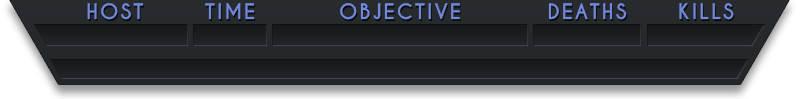
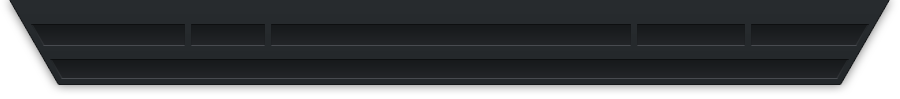
Wider overlay, option to chose colour
Use ?colour=hex to customize

diff --git a/overlay.css b/overlay.css
@@ -12,7 +12,7 @@
 		background-position: -250px 0;
 	}
 	100% {
-		background-position: 950px 0;
+		background-position: 1050px 0;
 	}
 }
 body{
@@ -22,7 +22,7 @@ body{
 .container{
     position: relative;
     height: 99px;
-    width: 800px;
+    width: 900px;
 	margin: 0 auto;
 	padding: 0;
     background-image: url(overlay.png);
@@ -37,12 +37,12 @@ body{
     left: 50px;
 	top: 50px;
     height: 5px;
-    width: 700px;
+    width: 800px;
     background-color: rgba(0,0,0,0.2);
 	box-shadow:inset 1px 1px 0px 0 rgba(0, 0, 0, 0.5), 1px 1px 0px 0 rgba(255, 255, 255, 0.1);
     border-radius: 0 0 5px 5px;
 }
-.ui-progressbar-value{
+.value{
     height: 100%;
     border-radius: 0 0 10px 10px;
 	background-color: #7289DA;
@@ -79,7 +79,7 @@ body{
 }
 #Time{
     top: 24px;
-	left: 193px;
+	left: 191px;
     width: 74px;
 	height: 22px;
 }
@@ -90,8 +90,8 @@ body{
 }
 #Objective{
     top: 24px;
-	left: 272px;
-    width: 256px;
+	left: 271px;
+    width: 360px;
 	height: 22px;
 }
 #Objective::before{
@@ -101,7 +101,7 @@ body{
 }
 #Deaths{
     top: 24px;
-	left: 533px;
+	left: 637px;
     width: 108px;
 	height: 22px;
 }
@@ -112,7 +112,7 @@ body{
 }
 #Kills{
     top: 24px;
-	left: 647px;
+	left: 751px;
     width: 119px;
 	height: 22px;
 }
@@ -121,6 +121,36 @@ body{
 	animation: masked-animation 13s ease-in-out infinite;
 	background-size: 400% 100%;
 }
+.host{
+    top: 0;
+	left: 83px;
+    width: 60px	;
+	height: 20px;
+}
+.time{
+    top: 0;
+	left: 201px;
+    width: 52px	;
+	height: 20px;
+}
+.objective{
+    top: 0;
+	left: 389px;
+    width: 122px	;
+	height: 20px;
+}
+.deaths{
+    top: 0;
+	left: 650px;
+    width: 83px	;
+	height: 20px;
+}
+.kills{
+    top: 0;
+	left: 782px;
+    width: 58px	;
+	height: 20px;
+}
 .textFormat{
 	text-align: center;
 	font-weight: bold;
@@ -128,10 +158,18 @@ body{
     color: rgba(153, 170, 181, .7);
     position: absolute;
 }
+.titleFormat{
+	text-align: center;
+	font-size: 18px;
+	font-weight: bold;
+    color: #7289da;
+    position: absolute;
+	text-shadow: 1px 1px rgba(0,0,0,0.4);
+}
 .info{
     top: 59px;
-	left: 49px;
-    width: 701px;
+	left: 51px;
+    width: 799px;
 	height: 20px;
 }
 .info::before{

diff --git a/overlay.js b/overlay.js
@@ -1,7 +1,6 @@
 var lastUpdate = 0;
 var lastData = [];
-var trialDataURL = 'http://trialslive.azurewebsites.net/api/live/PC/';
-trialDataURL = 'https://86541c65-ac1b-42e0-8eaa-50c36511bceb.pub.cloud.scaleway.com/api/live/PC/';
+var trialDataURL = 'https://86541c65-ac1b-42e0-8eaa-50c36511bceb.pub.cloud.scaleway.com/api/live/PC/';
 var infoURL = 'Info.txt';
 
 function getInfoText(callback) {
@@ -60,11 +59,24 @@ function updateTags(username) {
     $('#Kills').text(c.kills).attr('data-content',c.kills);
     $('#Deaths').text(c.deaths).attr('data-content',c.deaths);
     $('#Players').text('Players: ' + players);
-    $('.progress').progressbar({
-      value: c.progressValue
-    });
+	$('.value').css('width', c.progressValue + '%');
     //c.progressValue < 100 ? $('.ui-progressbar-value').addClass('loading') : $('.ui-progressbar-value').removeClass('loading');
   });
+}
+
+function customColour(hexValue){
+	if (!hexValue) {
+		return
+	}
+	var selectDom = $('.host, .time, .objective, .deaths, .kills');
+	var progressC = $('.value');
+	var bigint = parseInt(hexValue, 16);
+    var r = (bigint >> 16) & 255;
+    var g = (bigint >> 8) & 255;
+    var b = bigint & 255;
+	var rbg = 'rgb(' + r + ',' + g + ',' + b + ')'
+	selectDom.css('color', rbg);
+	progressC.css('background-color', rbg);
 }
 
 function getParameterByName(name, url) {
@@ -109,15 +121,10 @@ function setupInfoBox(username) {
 
 function onDocumentReady () {
   var username = getParameterByName('user', window.location.href);
+  var colour = getParameterByName('colour', window.location.href);
+  customColour(colour);
   setupInfoBox(username);
   setInterval(updateTags, 250, username);
-  setInterval(function () { 
-    var load = document.getElementsByClassName('load');
-    var progressBar = document.getElementsByClassName('ui-progressbar-value');
-    if(progressBar[0]) {
-        progressBar[0].appendChild(load[0]);
-    }
-  }, 2000);
 }
 
 $(document).ready(function(){onDocumentReady();});

diff --git a/overlay.html b/overlay.html
@@ -1,0 +1,33 @@
+<!DOCTYPE html>
+<html>
+<head>
+  <link rel="stylesheet" href="overlay.css"/>
+  <meta charset="utf-8" />
+  <script src="https://code.jquery.com/jquery-3.1.1.min.js"></script>
+  <script src="https://ajax.googleapis.com/ajax/libs/jqueryui/1.8/jquery-ui.min.js"></script>
+  <script src="overlay.js"></script>
+</head>
+<body>
+  <div class="load"></div>
+  <div id="cont" class="container hidden">
+    <div class="progress">
+		<div class="value">
+			<div class="load"></div>
+		</div>
+	</div>
+    <span id="Host" class="scroll textFormat"></span>
+    <span id="Time" class="scroll textFormat"></span>
+    <span id="Kills" class="scroll textFormat"></span>
+    <span id="Deaths" class="scroll textFormat"></span>
+    <span id="Objective" class="scroll textFormat"></span>
+	
+	<span class="host titleFormat">HOST</span>
+	<span class="time titleFormat">TIME</span>
+	<span class="objective titleFormat">OBJECTIVE</span>
+	<span class="kills titleFormat">KILLS</span>
+	<span class="deaths titleFormat">DEATHS</span>
+    <span class="info scroll textFormat"></span>
+  </div>
+  <p id="Players" style="display: none;"></p>
+</body>
+</html>
